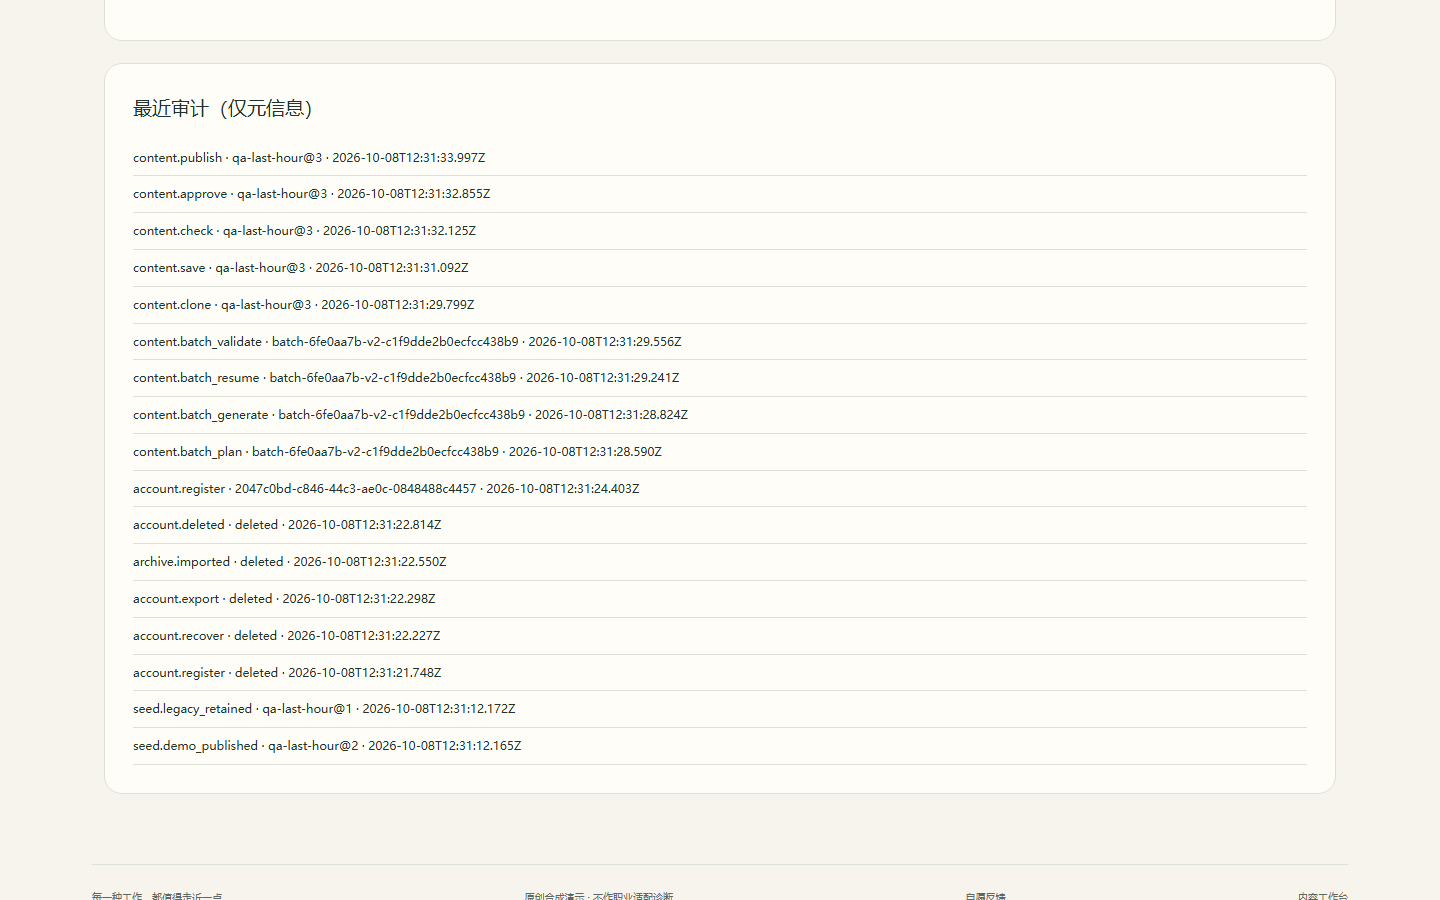
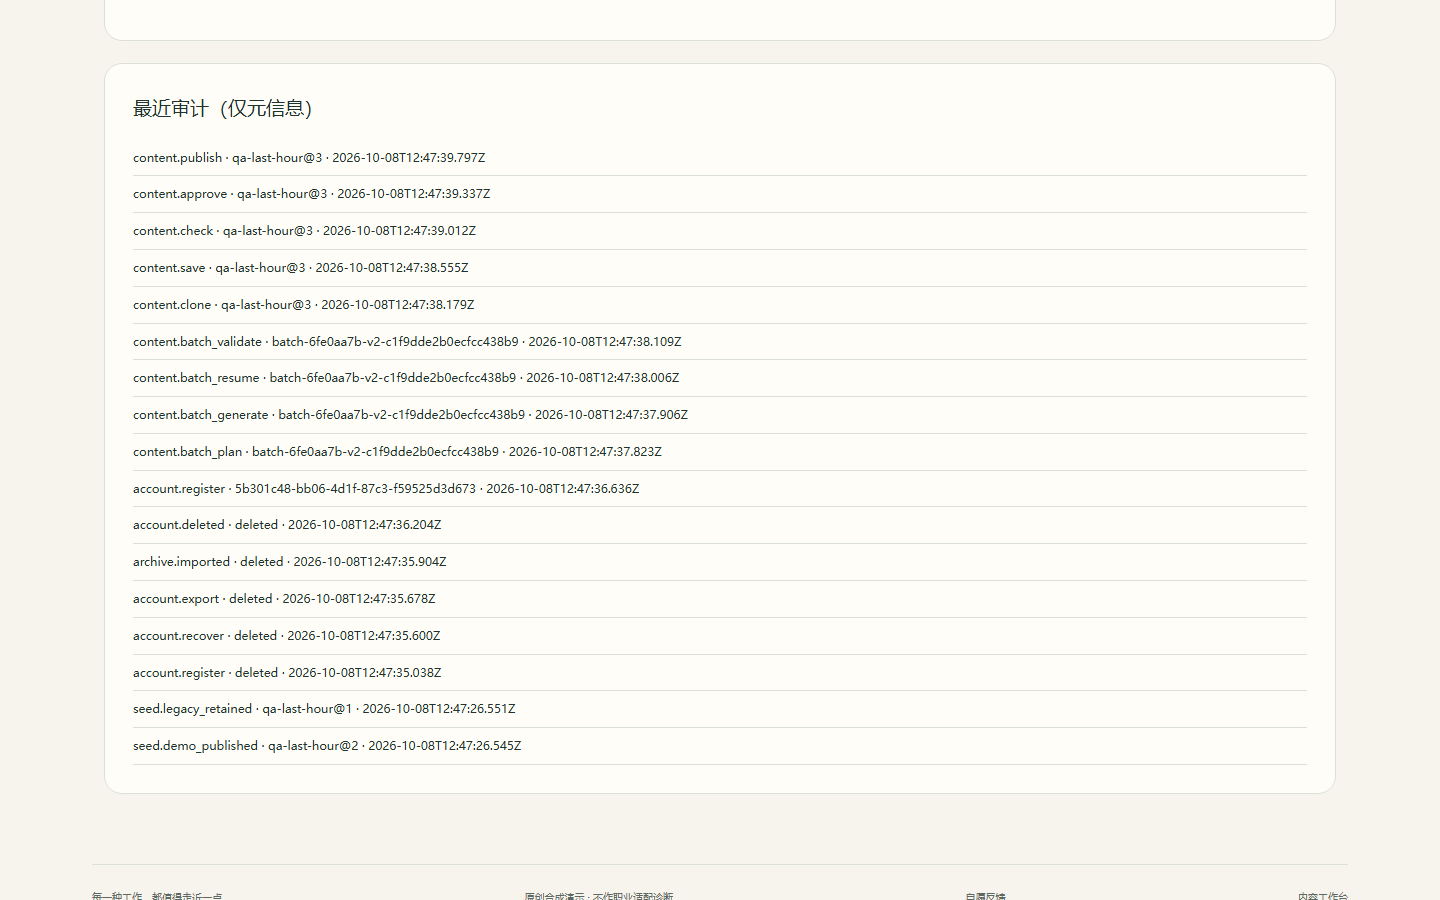
fix(ci): stabilize recovery acceptance and use Node 24 actions

diff --git a/docs/delivery-log.md b/docs/delivery-log.md
@@ -15,7 +15,13 @@
 | F08-endings | 本人结局回顾、冻结版本摘要、原分支链接与待确认动作恢复 | 新增9项SQLite测试；真实浏览器核对已提交记录、回溯保留、原编号IndexedDB持久化和跨分支显式恢复 | 363e73b；已push并ls-remote核实，CI success |
 | F09-studio | 已有节点图形编辑、JSON互通、图诊断、脏数据保护、审核发布 | 新增15项纯函数测试；真实浏览器编辑/循环诊断/保存重读/发布回退/旧局冻结与手机无横向溢出通过 | 480c4dc；已push并ls-remote核实，CI success |
 | F10-container-ci | CI/CD、贡献说明、多阶段Docker、同镜像验证后发布Docker Hub | actionlint 1.7.12、Compose、Linux/amd64实际build与完整容器smoke均通过；Secrets只用于受限发布job | 22d5468；已push并ls-remote核实；远端运行与发布另记 |
-| F11-dialogue-reader | 已提交对白逐段阅读、可选自动翻段、暂停和减少动态 | 新增7项纯函数测试与1项浏览器流程；全量100项测试、8项浏览器、类型、lint、生产build通过 | 本功能提交；远端运行与发布另记 |
+| F11-dialogue-reader | 已提交对白逐段阅读、可选自动翻段、暂停和减少动态 | 新增7项纯函数测试与1项浏览器流程；全量100项测试、8项浏览器、类型、lint、生产build通过 | a009575；已push并ls-remote核实；远端运行与发布另记 |
+
+## CI 首次运行与验收修正
+
+首次完整运行 [37778245773](https://github.com/guoweiyi/CareerScape/actions/runs/37778245773) 在类型、lint、100项单元/服务测试、美术和生产build后，通过了包括逐段阅读在内的7项浏览器流程，但原响应丢失恢复用例失败，后续Docker与发布被阻止。前一运行37778113546由同分支新提交取消；二者都不记作通过。
+
+失败trace显示服务端动作已200完成，客户端恢复GET紧随abort发起，却没有响应时间或JS异常。证据指向测试中`times:1`自动解除最后一个拦截器与恢复请求的时序竞态。改为仅截断首个已提交动作的响应，等待恢复确认后显式解除拦截；新增服务端`turn_committed`与仅一次提交的断言，没有给产品加重试或放宽测试超时。修正后定向重复5次通过，完整8项E2E再次通过（23.5秒）。同时核对官方release和action.yml，升级固定到Node24运行时的Actions；远端最终结果以下一次运行实际返回为准。
 
 ## 逐段阅读本地验证
 

diff --git a/docs/ci-cd.md b/docs/ci-cd.md
@@ -36,6 +36,8 @@ flowchart LR
 
 工作流的 GitHub token 权限为 `contents: read`，未申请仓库写入权限；Docker Hub 凭据只传给发布 job 的凭据检查和登录步骤。第三方 Actions 固定到完整提交 SHA。
 
+2026-10-08 已核对并固定支持 Node 24 的 checkout 7.0.1、setup-node 7.1.0、pnpm/action-setup 6.1.0、upload-artifact 7.0.2 与 download-artifact 8.0.2。使用 GitHub 托管 Ubuntu runner；自托管 runner 至少需要 2.327.1。镜像 artifact 保持默认 ZIP 归档和解压语义，不设置 `archive:false`。兼容依据：[checkout](https://github.com/actions/checkout/tree/v7.0.1#whats-new)、[setup-node](https://github.com/actions/setup-node/tree/v7.1.0#whats-new-in-v7)、[pnpm v12 支持](https://github.com/pnpm/action-setup/releases/tag/v6.1.0)、[上传输入](https://github.com/actions/upload-artifact/blob/v7.0.2/action.yml)、[下载输入](https://github.com/actions/download-artifact/blob/v8.0.2/action.yml)。
+
 分支 push 和 PR 如果只修改 `docs/**`、`README.md`、`CONTRIBUTING.md` 或 `.github/PULL_REQUEST_TEMPLATE.md`，整个工作流按 `paths-ignore` 跳过。手动运行不受该过滤影响；tag push 不按文件路径过滤。GitHub 的路径过滤语义见[官方工作流语法](https://docs.github.com/en/actions/reference/workflows-and-actions/workflow-syntax#onpushpull_requestpull_request_targetpathspaths-ignore)。
 
 并发组为“工作流名称 + ref”。同一分支或 PR ref 的新运行会取消旧运行；tag ref 不启用自动取消。已经完成的推送不会因后续运行取消而回滚，排查时应看具体步骤与发布摘要。
